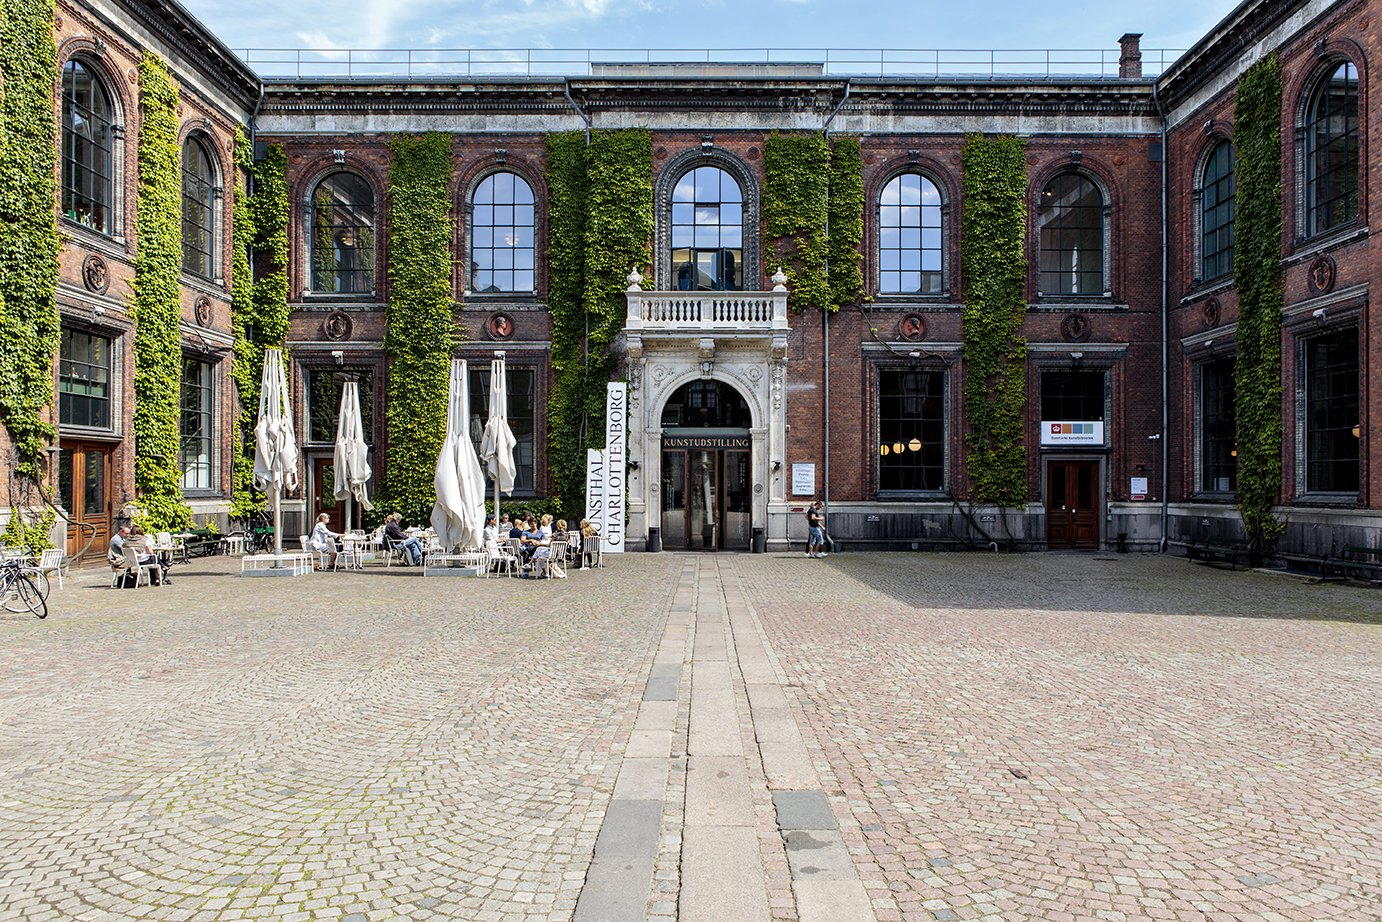
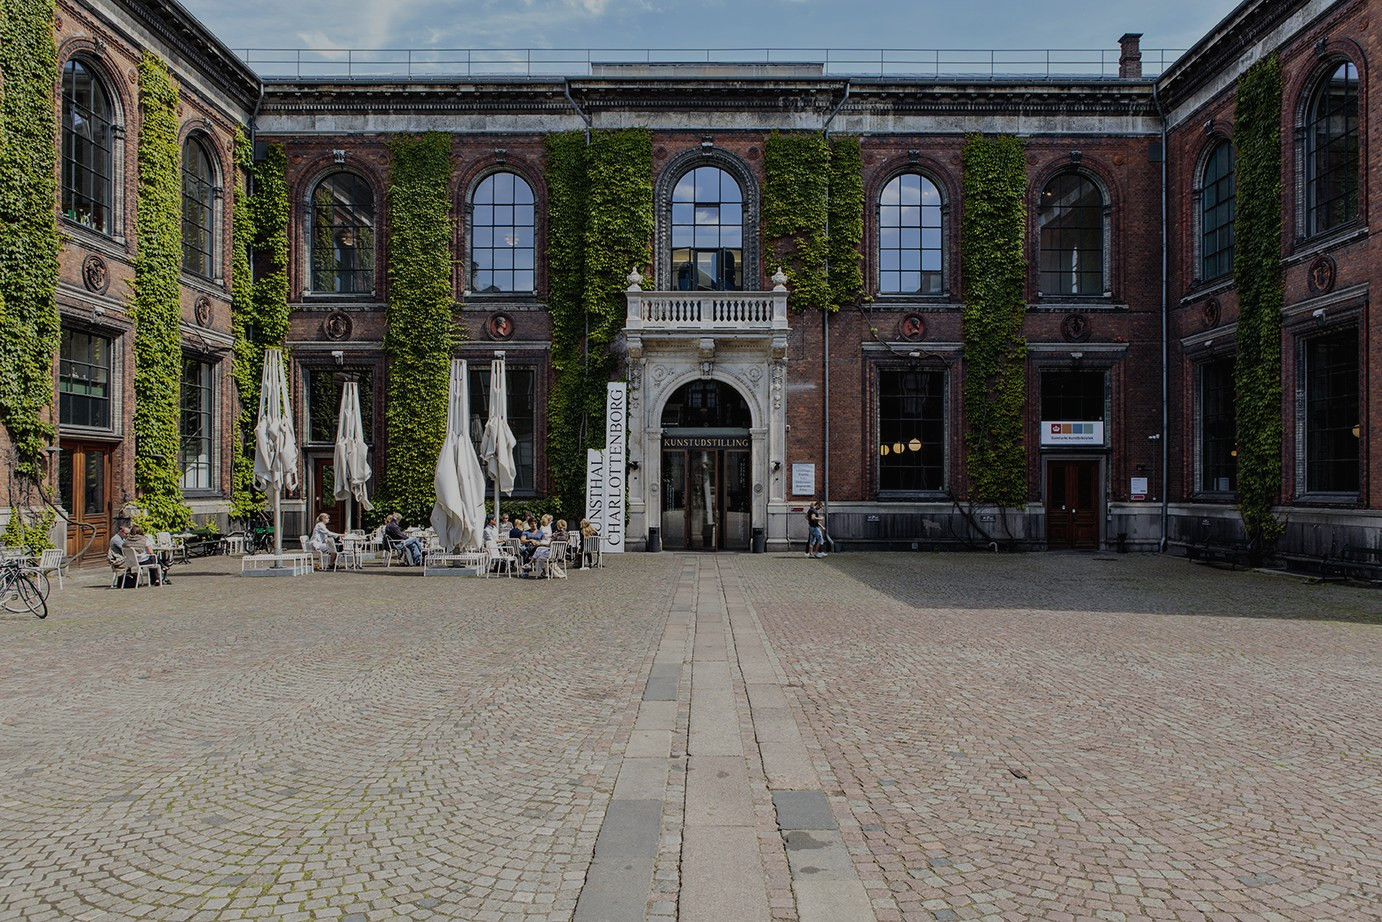
Add overlay directly to image

diff --git a/src/components/all.sass b/src/components/all.sass
@@ -20,7 +20,6 @@
   background-repeat: no-repeat
   background-attachment: fixed
   background-size: cover
-  background-color: $grey-darker
 
 .navbar-item
   color: $white !important
@@ -32,9 +31,6 @@
   margin-bottom: 10vh
   h1, h2
     color: $white
-
-.is-overlay
-  opacity: 0.5
 
 .section
   padding: 5rem 1.5rem !important

diff --git a/src/components/Hero.jsx b/src/components/Hero.jsx
@@ -9,7 +9,6 @@ export default () => {
   return (
     <Hero size="fullheight">
       <Hero.Body>
-        <div className="has-background-black is-overlay"></div>
         <Container center className="has-text-centered">
           <Heading textWeight="normal">{title}</Heading>
           <Heading subtitle renderAs="h2">
